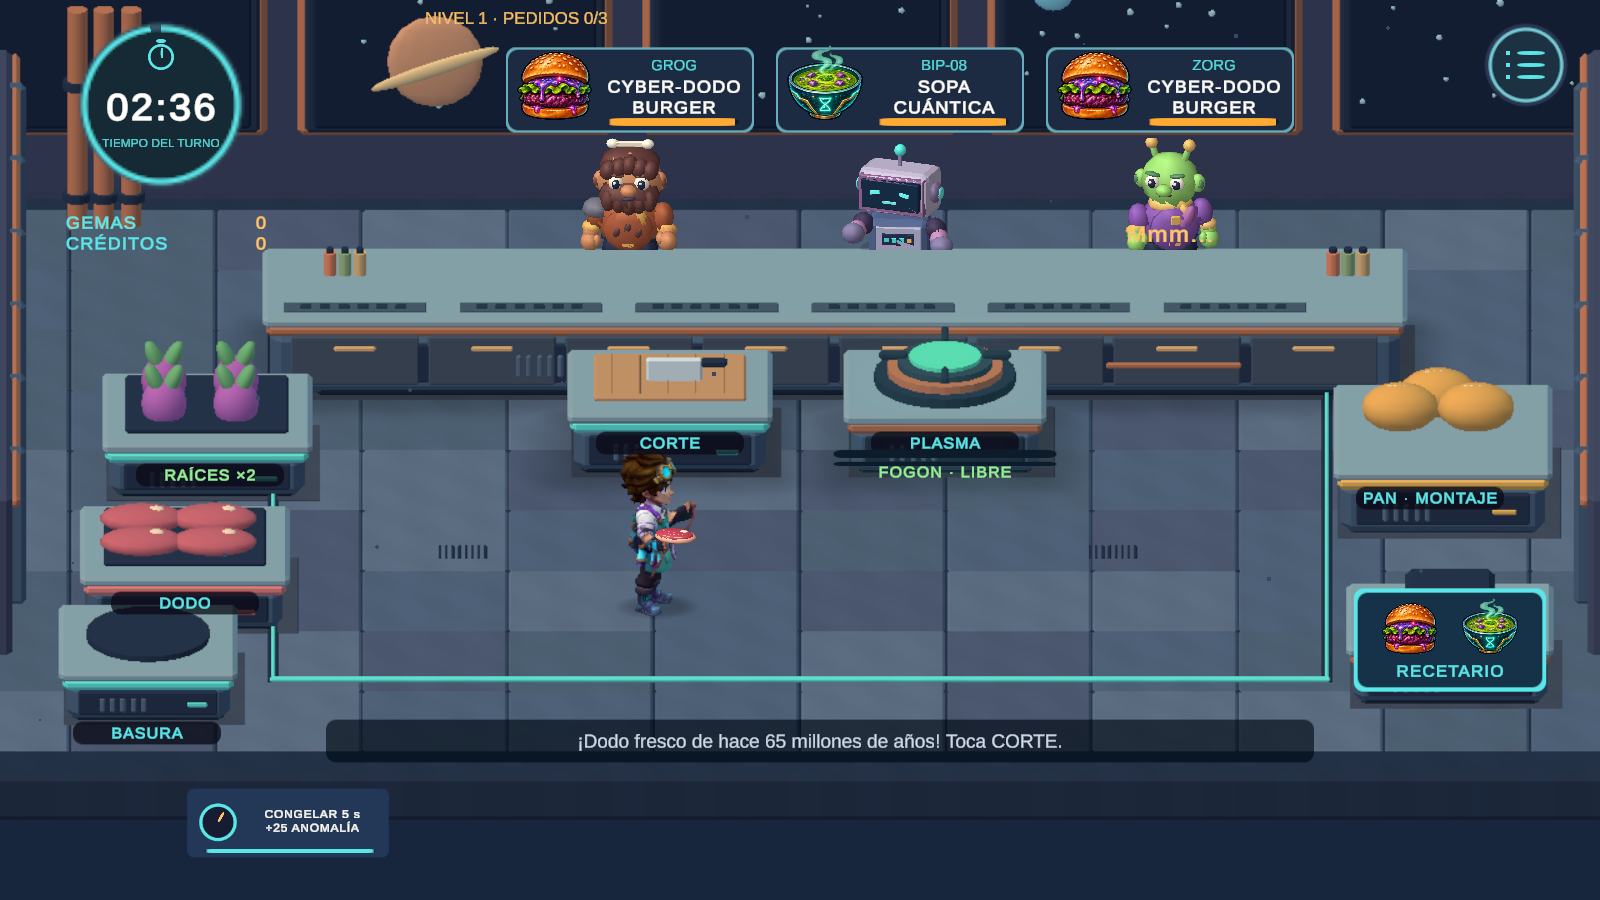
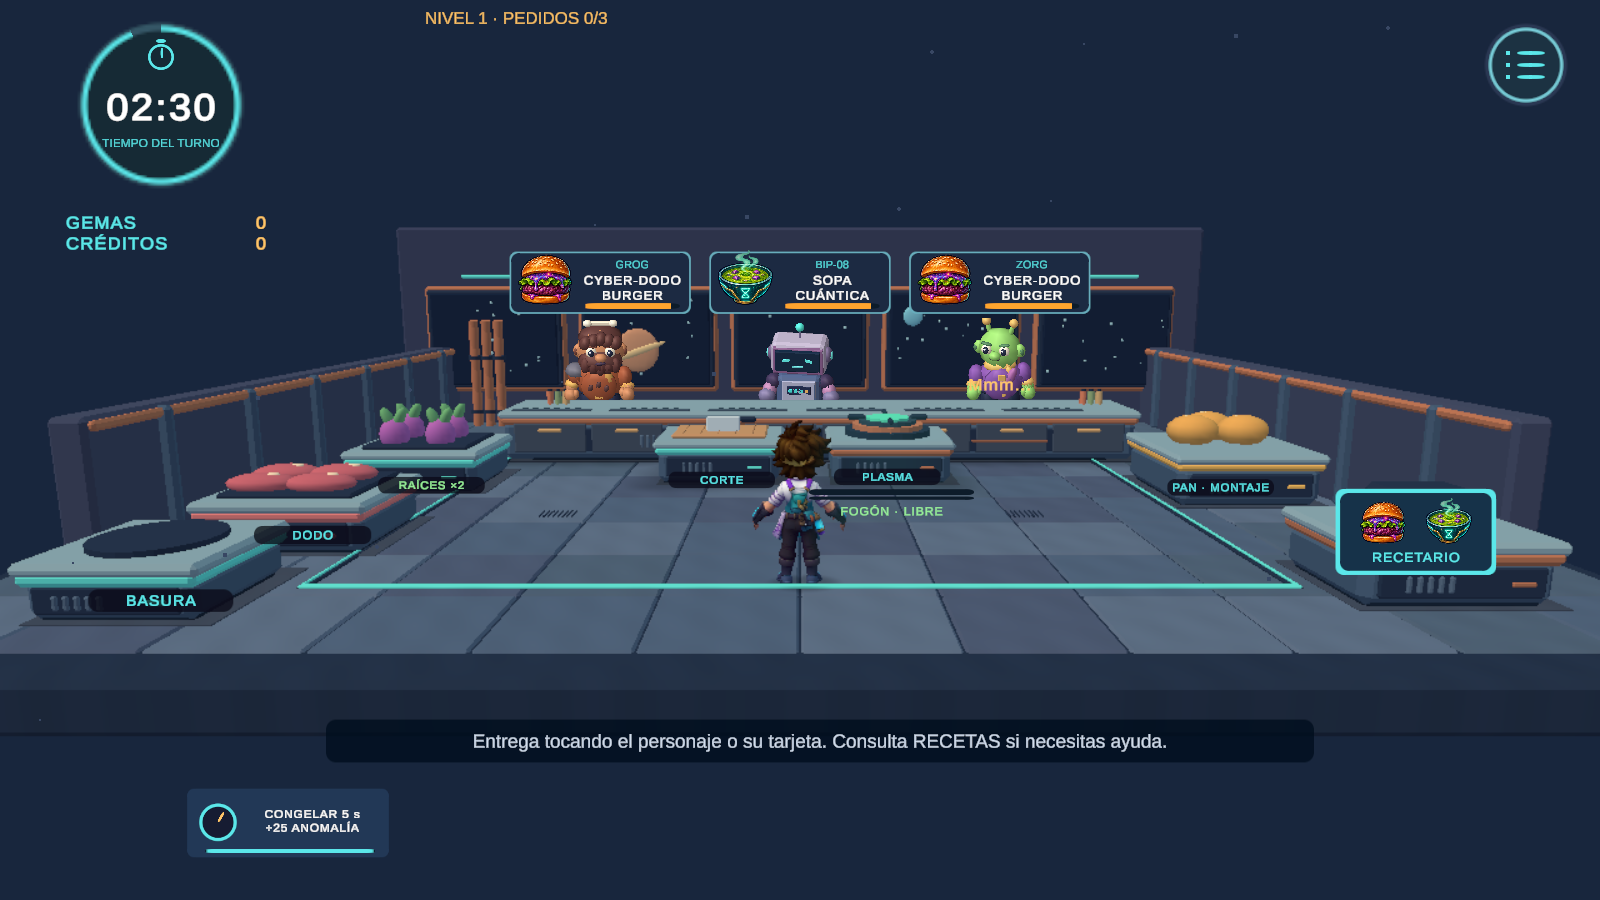
Frame the orbital galley from a fixed rear perspective

diff --git a/Assets/ChronosChef/Scripts/OrbitalGalley.cs b/Assets/ChronosChef/Scripts/OrbitalGalley.cs
@@ -7,7 +7,9 @@ namespace ChronosChef
     // The camera's image occupies the same safe-area frame as the touch controls.
     public sealed class OrbitalGalley : MonoBehaviour
     {
-        const float Pitch = 23f;
+        // Floor coordinates are authored against the original deck projection.
+        const float FloorPixelsPerMetre = 39.07311f;
+        Camera lens;
         const int SceneLayer = 30;
         public RenderTexture Image { get; private set; }
         Mesh galleyMesh, actorMesh;
@@ -31,12 +33,12 @@ namespace ChronosChef
             actor = AddSurface("Ares",actorMesh,actorSurface);
 
 
-            var lens = new GameObject("Galley camera").AddComponent<Camera>();
+            lens = new GameObject("Galley camera").AddComponent<Camera>();
             lens.transform.SetParent(transform,false);
-            lens.transform.localRotation = Quaternion.Euler(Pitch,0,0);
-            lens.transform.localPosition = -(lens.transform.localRotation*Vector3.forward)*28;
-            lens.orthographic = true;
-            lens.orthographicSize = 4.5f;
+            lens.transform.localRotation = Quaternion.Euler(10,0,0);
+            lens.transform.localPosition = new Vector3(0,3.25f,-15.8f);
+            lens.orthographic = false;
+            lens.fieldOfView = 50;
             lens.clearFlags = CameraClearFlags.SolidColor;
             lens.backgroundColor = KitchenView.C("18263D");
             lens.cullingMask = 1 << SceneLayer;
@@ -50,9 +52,7 @@ namespace ChronosChef
 
         public void UpdateService(KitchenGame game, float modelScale)
         {
-            var floor = game.ChefPosition;
-            float sine = Mathf.Sin(Pitch*Mathf.Deg2Rad);
-            actor.localPosition = new Vector3((floor.x-800)/100f,.05f,(floor.y-473)/(100*sine));
+            actor.localPosition = FloorPoint(game.ChefPosition);
             actor.localScale = Vector3.one*modelScale;
             var feet = actor.localPosition;
             galleySurface.SetVector(ChefFloor,new Vector4(feet.x,feet.z,0,0));
@@ -60,6 +60,15 @@ namespace ChronosChef
             float heat = game.StoveFood == Food.Empty ? .17f : .75f;
             galleySurface.SetFloat(Burner,heat * (.9f + .1f*Mathf.Sin(burnerPhase*6)));
         }
+        static Vector3 FloorPoint(Vector2 floor) => new Vector3((floor.x-800)/100f,.05f,(floor.y-473)/FloorPixelsPerMetre);
+        public Vector2 FloorScreen(Vector2 floor) => ScreenPoint(FloorPoint(floor));
+        public Vector2 ScreenPoint(Vector3 local)
+        {
+            var v = lens.WorldToViewportPoint(transform.TransformPoint(local));
+            return new Vector2(v.x*1600,v.y*900);
+        }
+        public float ScreenScale(Vector3 local) => (ScreenPoint(local+Vector3.right).x-ScreenPoint(local).x)/100f;
+        public Vector2 HandScreen(Vector3 point) => ScreenPoint(actor.localPosition + new Vector3(point.x,point.z,point.y)*actor.localScale.x);
         Transform AddSurface(string title, Mesh mesh, Material mat)
         {
             var part = new GameObject(title,typeof(MeshFilter),typeof(MeshRenderer));

diff --git a/Assets/ChronosChef/Scripts/KitchenView.RearCamera.cs b/Assets/ChronosChef/Scripts/KitchenView.RearCamera.cs
@@ -1,0 +1,57 @@
+using System.Collections.Generic;
+using System.Linq;
+using UnityEngine;
+
+namespace ChronosChef
+{
+    public sealed partial class KitchenView
+    {
+        readonly Dictionary<RectTransform,(Vector2 position,Vector3 scale)> campaignLayout = new();
+        void ApplyRearLayout()
+        {
+            void Place(RectTransform r,Vector2 screen,float scale)
+            {
+                campaignLayout.Add(r,(r.anchoredPosition,r.localScale));
+                r.anchoredPosition=screen;
+                r.localScale=Vector3.one*scale;
+            }
+            void StationAt(Station s,Vector3 surface)
+            {
+                Place((RectTransform)stations[(int)s].transform,galley.ScreenPoint(surface),
+                    Mathf.Clamp(galley.ScreenScale(surface),.72f,1));
+            }
+            StationAt(Station.Supply,new Vector3(-6.15f,.6f,-3.90f));
+            StationAt(Station.Roots,new Vector3(-5.93f,.6f,-.50f));
+            StationAt(Station.Trash,new Vector3(-6.52f,.55f,-6.28f));
+            StationAt(Station.Assemble,new Vector3(6.43f,.7f,-1.27f));
+            StationAt(Station.Cut,new Vector3(-1.30f,.6f,.02f));
+            StationAt(Station.Stove,new Vector3(1.45f,.65f,.03f));
+            var burner = galley.ScreenPoint(new Vector3(1.45f,0,-.85f));
+            Place(stoveLabel.rectTransform,burner+Vector2.down*23,.77f);
+            Place((RectTransform)cookFill.transform.parent,burner+Vector2.down*4,.74f);
+            Place((RectTransform)burnFill.transform.parent,burner+Vector2.down*10,.74f);
+            Place((RectTransform)stage.Find("RecipeHelp"),galley.ScreenPoint(new Vector3(6.50f,.63f,-5.92f)),.82f);
+            var rims=stage.Cast<Transform>().Where(t=>t.name=="OrderRim").ToArray();
+            const float scale=.73f;
+            for (int i=0;i<3;i++)
+            {
+                var edge=galley.ScreenPoint(new Vector3((i-1)*3.9f,.95f,2.92f));
+                Place((RectTransform)stage.Find("CustomerWindow"+i),edge+Vector2.up*(56*scale),scale);
+                var order=edge+Vector2.up*(160*scale);
+                Place((RectTransform)customerLabels[i].transform.parent,order,scale);
+                Place((RectTransform)rims[i],order,scale);
+                Place((RectTransform)stations[5+i].transform,edge+Vector2.up*(96*scale),scale);
+                Place(comicSounds[i].rectTransform,edge+Vector2.up*15,scale);
+            }
+        }
+        void RestoreRearLayout()
+        {
+            foreach(var item in campaignLayout)
+            {
+                item.Key.anchoredPosition=item.Value.position;
+                item.Key.localScale=item.Value.scale;
+            }
+            campaignLayout.Clear();
+        }
+    }
+}

diff --git a/Assets/ChronosChef/Scripts/KitchenView.Expansion.cs b/Assets/ChronosChef/Scripts/KitchenView.Expansion.cs
@@ -217,15 +217,15 @@ namespace ChronosChef
             float lean = Mathf.Clamp(g.ChefPosition.x - lastChef.x, -1, 1); lastChef = g.ChefPosition;
             if (!ares && !g.Paused) { chef.localEulerAngles = new Vector3(0, 0, -lean * 6); chef.localScale *= 1 + pop * .25f; }
             feedbackLabel.gameObject.SetActive(pulse > 0); feedbackLabel.rectTransform.anchoredPosition = new Vector2(865, 410 + (1 - pulse) * 35); feedbackLabel.alpha = Mathf.Min(1, pulse * 3);
-            for (int i = 0; i < workSparks.Length; i++) { workSparks[i].gameObject.SetActive(pulse > .25f); if (pulse > .25f) workSparks[i].anchoredPosition = g.ChefPosition + new Vector2(Mathf.Cos(i * 2.4f), Mathf.Sin(i * 2.4f)) * ((.85f - pulse) * 170 + 15); }
-            for (int i = 0; i < routeDots.Length; i++) { bool visible = i < g.RoutePreview.Count; routeDots[i].gameObject.SetActive(visible); if (visible) routeDots[i].anchoredPosition = KitchenRules.Position(g.RoutePreview[i]); }
+            for (int i = 0; i < workSparks.Length; i++) { workSparks[i].gameObject.SetActive(pulse > .25f); if (pulse > .25f) workSparks[i].anchoredPosition = chef.anchoredPosition + new Vector2(Mathf.Cos(i * 2.4f), Mathf.Sin(i * 2.4f)) * ((.85f - pulse) * 170 + 15); }
+            for (int i = 0; i < routeDots.Length; i++) { bool visible = i < g.RoutePreview.Count; routeDots[i].gameObject.SetActive(visible); if (visible) routeDots[i].anchoredPosition = InGalley ? galley.FloorScreen(KitchenRules.Position(g.RoutePreview[i])) : KitchenRules.Position(g.RoutePreview[i]); }
             for (int i = 1; i < stoveFoods.Length; i++) stoveFoods[i].gameObject.SetActive((int)g.StoveFood == i);
             float clock = g.Running && !g.Paused ? Time.time : 0;
             for (int i = 0; i < steam.Length; i++)
             {
                 bool visible = g.StoveFood != Food.Empty; steam[i].gameObject.SetActive(visible);
                 float f = Mathf.Repeat(clock * .65f + i / 6f, 1);
-                steam[i].anchoredPosition = new Vector2(945 + i * 7 + Mathf.Sin(clock * 3 + i) * 9, 538 + f * 85);
+                steam[i].anchoredPosition = (InGalley ? galley.ScreenPoint(new Vector3(1.45f,1,.03f)) : new Vector2(945,538)) + new Vector2(i * 7 + Mathf.Sin(clock * 3 + i) * 9, f * 85);
                 steam[i].localScale = Vector3.one * (1 + f * 1.4f);
                 steam[i].GetComponent<UnityEngine.UI.Image>().color = new Color(g.StoveFood == Food.Burnt ? .7f : .5f, .8f, 1, (1 - f) * .5f);
             }

diff --git a/Assets/ChronosChef/Scripts/KitchenView.Environment.cs b/Assets/ChronosChef/Scripts/KitchenView.Environment.cs
@@ -18,7 +18,7 @@ namespace ChronosChef
         UnityEngine.UI.Image clockSweep;
         OrbitalGalley galley;
         KitchenProgress campaignProgress;
-        bool InGalley => campaignProgress != null;
+        internal bool InGalley => campaignProgress != null;
 
         void StartGalleyTrial()
         {
@@ -36,12 +36,15 @@ namespace ChronosChef
             stations[3].transform.Find("AssemblyPlate").gameObject.SetActive(false);
             stations[3].transform.Find("BreadSupply").gameObject.SetActive(false);
             chef.Find("Shadow").gameObject.SetActive(false);
+            ApplyRearLayout();
+            angle = 180;
             game.BeginLevel(1);
         }
 
         void LeaveGalleyTrial()
         {
             if (!InGalley) return;
+            RestoreRearLayout();
             ares.SetWorldSkin(null);
             galley.gameObject.SetActive(false);
             counterLayer.gameObject.SetActive(true);
@@ -161,6 +164,8 @@ namespace ChronosChef
             {
                 environmentLayer.texture = galley.Image;
                 galley.UpdateService(g,ares.WorldScale);
+                chef.anchoredPosition = galley.FloorScreen(g.ChefPosition);
+                clone.anchoredPosition = galley.FloorScreen(g.ClonePosition);
             }
             else if (environmentLayer.texture != texture) { environmentLayer.texture = texture; counterLayer.texture = texture; }
             float age = KitchenGame.ParadoxSeconds - g.CloneRemaining;

diff --git a/Tools/VerifyOrbitalGalley.cs b/Tools/VerifyOrbitalGalley.cs
@@ -37,6 +37,11 @@ try
     var room=UnityEngine.Object.FindFirstObjectByType<ChronosChef.OrbitalGalley>();
     if (!room || !room.Image.IsCreated() || room.GetComponentInChildren<UnityEngine.Camera>().targetTexture!=room.Image)
         throw new System.Exception("3D camera not rendering");
+    var camera = room.GetComponentInChildren<UnityEngine.Camera>();
+    var cameraPosition = camera.transform.position;
+    var cameraRotation = camera.transform.rotation;
+    if (camera.orthographic || game.Facing != UnityEngine.Vector2.up || UnityEngine.Mathf.Abs(camera.transform.localPosition.x) > .001f)
+        throw new System.Exception("Trial did not open with a centered rear perspective");
     var actor=room.transform.Find("Ares");
     var start=actor.localPosition;
     game.SetStick(UnityEngine.Vector2.left);
@@ -49,6 +54,8 @@ try
     Tap("PlasmaStove"); await Wait(()=>game.Carry==ChronosChef.Food.CookedDodo,"Plate");
     Tap("Assembly"); await Wait(()=>game.Carry==ChronosChef.Food.Burger,"Assemble");
     Tap("ServeCustomer0"); await Wait(()=>game.Served==1,"Serve");
+    if (camera.transform.position != cameraPosition || camera.transform.rotation != cameraRotation)
+        throw new System.Exception("Camera moved with chef");
     Tap("Pause"); await Wait(()=>game.Paused,"Pause");
     await System.Threading.Tasks.Task.Delay(180);
     Tap("PauseHub"); await Wait(()=>!room.gameObject.activeSelf,"Exit");

diff --git a/Assets/ChronosChef/Scripts/KitchenView.Cast.cs b/Assets/ChronosChef/Scripts/KitchenView.Cast.cs
@@ -56,7 +56,7 @@ namespace ChronosChef
             if (g.NearbyStation.HasValue && !g.TutorialActive && !g.HasDestination)
                 stations[(int)g.NearbyStation.Value].image.color = new Color(.36f,1,.84f,.14f);
             float dt = Time.deltaTime;
-            if (g.Travelled < lastDistance) { gait = 0; angle = 0; }
+            if (g.Travelled < lastDistance) { gait = 0; angle = InGalley ? 180 : 0; }
             float distance = Mathf.Max(0, g.Travelled - lastDistance);
             lastDistance = g.Travelled;
             castClock += dt;
@@ -100,7 +100,7 @@ namespace ChronosChef
                 carriedIcon.localScale = Vector3.one * .80f;
                 float heading = angle * Mathf.Deg2Rad;
                 if (g.Carry != Food.Empty)
-                    carriedIcon.anchoredPosition = chef.InverseTransformPoint(ares.rectTransform.TransformPoint(ares.GripCenter()));
+                    carriedIcon.anchoredPosition = InGalley ? (galley.HandScreen(ares.GripPoint()) - chef.anchoredPosition) / chef.localScale.x : (Vector2)chef.InverseTransformPoint(ares.rectTransform.TransformPoint(ares.GripCenter()));
                 // Let the torso occlude the platter when the chef turns his back.
                 var body = ares.transform.parent;
                 if (Mathf.Cos(heading) < -.25f && carriedIcon.GetSiblingIndex() > body.GetSiblingIndex())

diff --git a/Assets/ChronosChef/Scripts/KitchenGame.cs b/Assets/ChronosChef/Scripts/KitchenGame.cs
@@ -95,8 +95,11 @@ namespace ChronosChef
             Credits = Served = Lost = Combo = arrivals = 0; Reputation = 100;
             Anomaly = CloneRemaining = CookTime = work = 0; CookDuration = 5;
             BorrowRemaining = BorrowCooldown = 0;
-            blocked = new Vector2Int(-1, -1); cell = new Vector2Int(5, 1);
-            ChefPosition = KitchenRules.Position(cell); route.Clear(); destination = null;
+            blocked = new Vector2Int(-1, -1); cell = new Vector2Int(5, view.InGalley ? 0 : 1);
+            if (view.InGalley) Facing = Vector2.up;
+            ChefPosition = KitchenRules.Position(cell);
+            if (view.InGalley) ChefPosition += Vector2.right * 40;
+            route.Clear(); destination = null;
             Running = true; Paused = false; TaskLabel = DestinationLabel = "";
             for (int i = 0; i < 3; i++) { SpawnCustomer(i); respawn[i] = 0; }
             Say("Desliza por el lado derecho para mover a Ares. Toca las estaciones para cocinar y a los clientes para entregar.");

diff --git a/Assets/ChronosChef/Scripts/KitchenModelGraphic.cs b/Assets/ChronosChef/Scripts/KitchenModelGraphic.cs
@@ -173,12 +173,16 @@ namespace ChronosChef
         }
         // The carried item is a sibling in the kitchen Canvas. Use the same
         // projection as the animated mitts so it stays seated through turns.
-        public Vector2 GripCenter()
+        public Vector3 GripPoint()
         {
             PrepareTransforms();
             var left = transforms[(int)Joint.ForeL].MultiplyPoint3x4(useSkin ? skinPivots[10] : new Vector3(-.72f,-.18f,.86f));
             var right = transforms[(int)Joint.ForeR].MultiplyPoint3x4(useSkin ? skinPivots[11] : new Vector3(.72f,-.18f,.86f));
-            var p = (left + right) * .5f;
+            return (left + right) * .5f;
+        }
+        public Vector2 GripCenter()
+        {
+            var p = GripPoint();
             var rect = rectTransform.rect;
             float scale = Mathf.Min(rect.width, rect.height) * model.fit;
             return rect.center + new Vector2(p.x, p.y*TiltSin + (p.z-model.middle)*TiltCos + .065f) * scale;

diff --git a/Assets/ChronosChef/Scripts/KitchenView.Living.cs b/Assets/ChronosChef/Scripts/KitchenView.Living.cs
@@ -117,7 +117,7 @@ namespace ChronosChef
         }
         void ShowDeliveryReceipt(int slot, Food dish, int credits)
         {
-            receiptStart = new Vector2(630 + slot * 270, 678);
+            receiptStart = InGalley ? galley.ScreenPoint(new Vector3((slot-1)*3.9f,1.6f,2.92f)) : new Vector2(630 + slot * 270, 678);
             receipt.anchoredPosition = receiptStart;
             receiptDish.sprite = DishSprite(dish);
             receiptAmount.SetText("+{0}", credits);

diff --git a/README.md b/README.md
@@ -28,7 +28,7 @@ El tutorial enseña ambas recetas en doce pasos, señala la estación siguiente 
 
 ## Cocina orbital de prueba
 
-En la portada, **PROBAR COCINA 3D** abre un turno con las reglas del nivel 1. La cubierta, la barra, las máquinas y Ares se renderizan con una cámara ortográfica a 23° sobre el suelo. Los pedidos, los clientes y los controles usan la interfaz de la cocina original. Para salir, usa **Pausa → Portal y mejoras**. Los créditos y el guardado de esta prueba usan su propio perfil.
+En la portada, **PROBAR COCINA 3D** abre un turno con las reglas del nivel 1. La cubierta, la barra, las máquinas y Ares se renderizan con una cámara fija en perspectiva, centrada detrás del punto de inicio de Ares y con una inclinación de 10° hacia la barra. Los pedidos, los clientes y los controles usan la interfaz de la cocina original. Para salir, usa **Pausa → Portal y mejoras**. Los créditos y el guardado de esta prueba usan su propio perfil.
 
 ![Turno en la cocina orbital](Docs/media/cocina-orbital.png)
 
